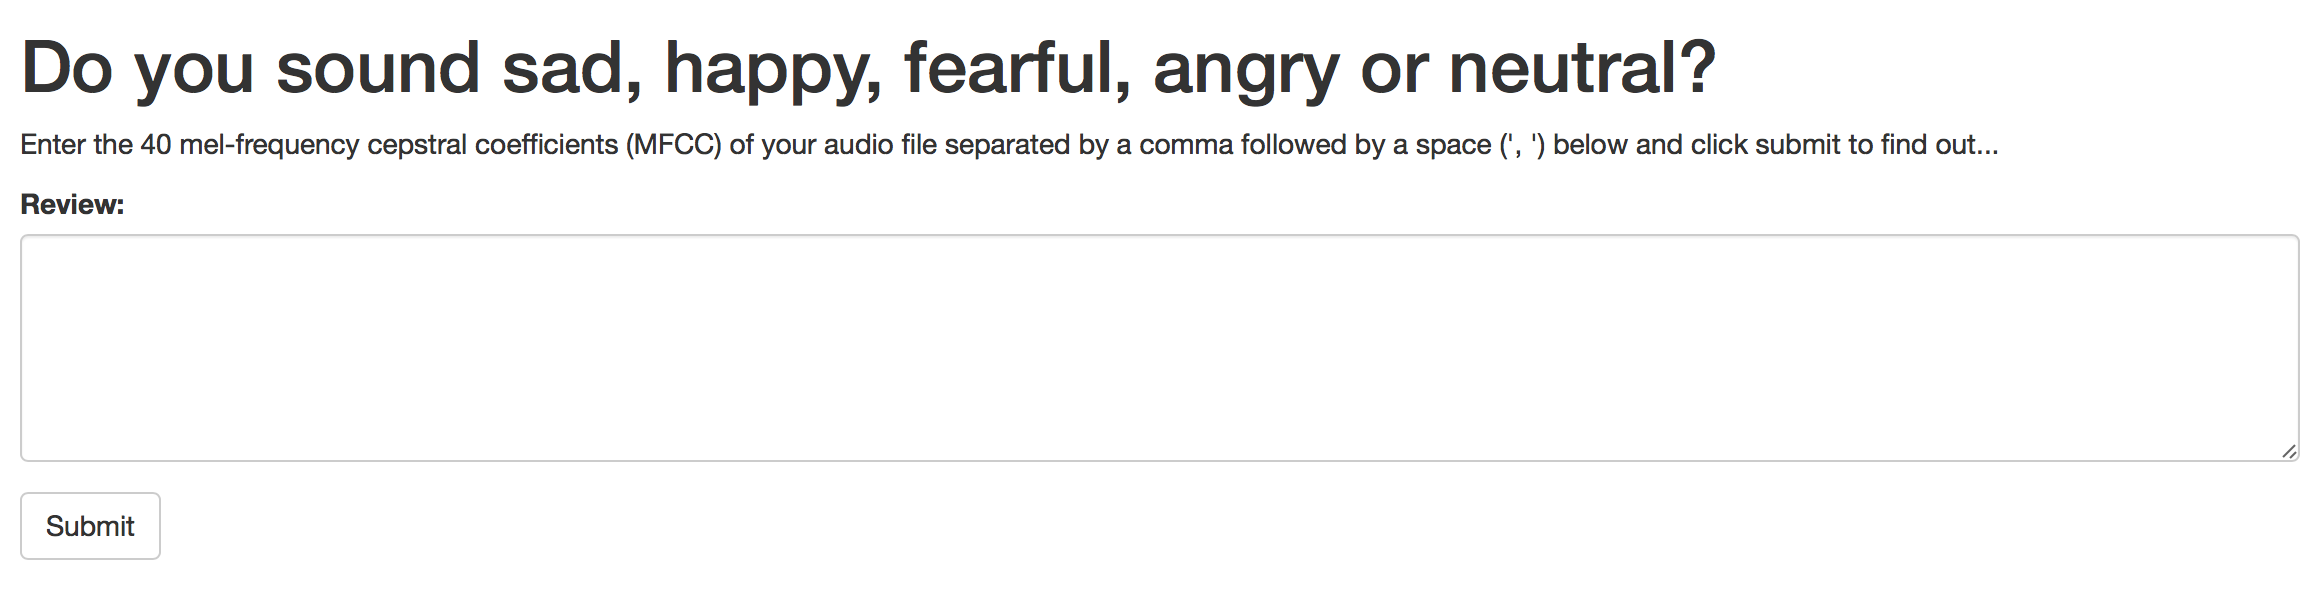
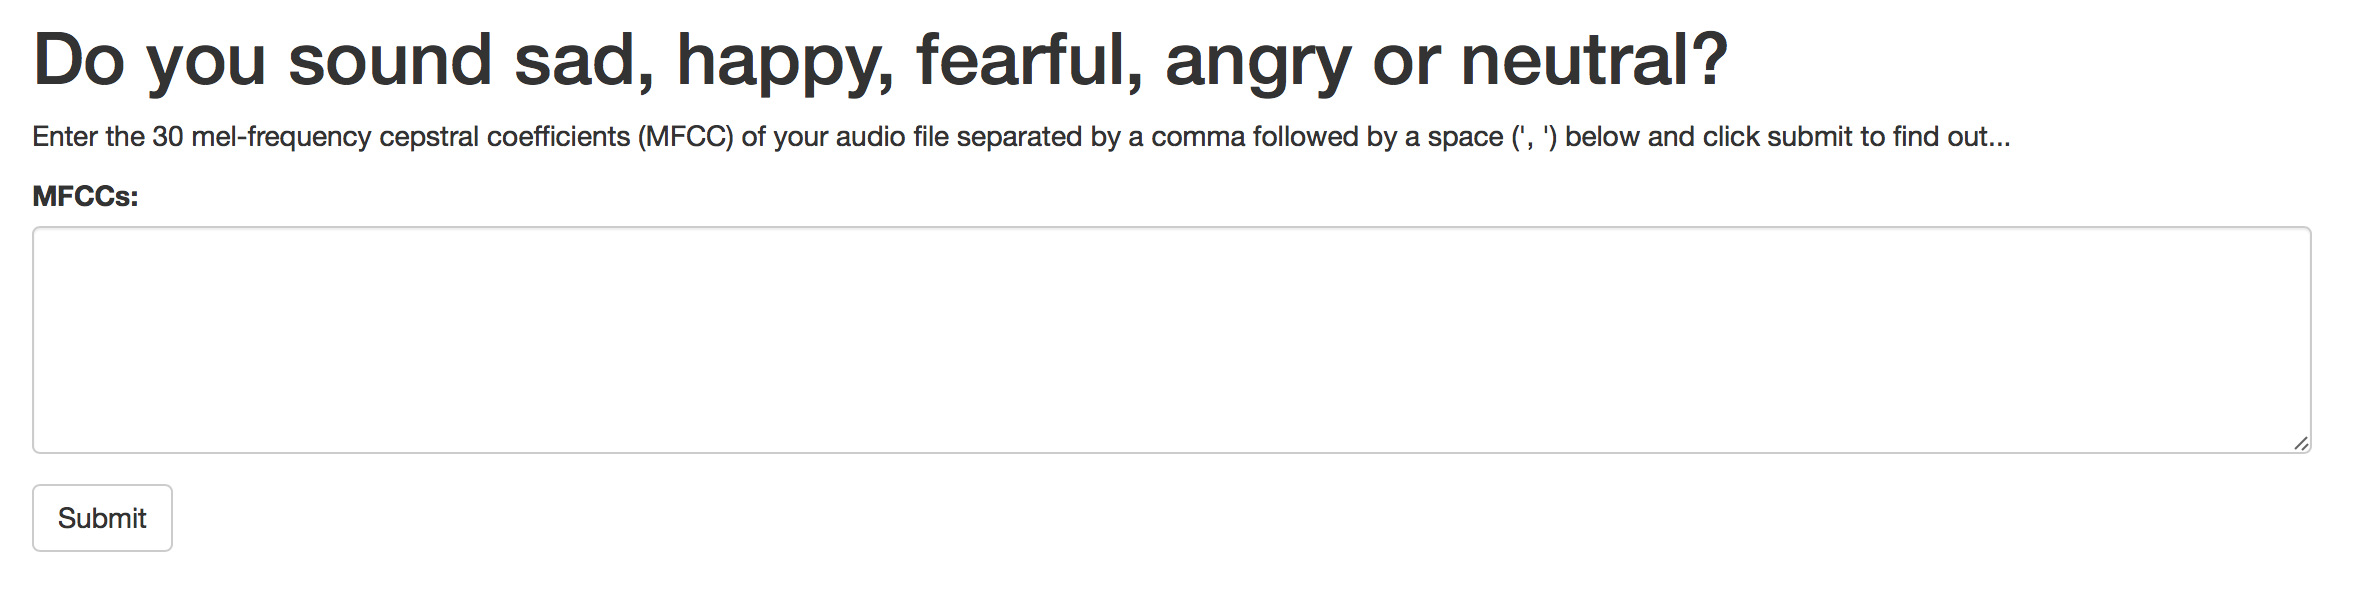
feat: redeployed and retested model 3 with 30 MFCCs

diff --git a/index.html b/index.html
@@ -45,12 +45,12 @@
 
         <div class="container">
             <h1>Do you sound sad, happy, fearful, angry or neutral?</h1>
-            <p>Enter the 40 mel-frequency cepstral coefficients (MFCC) of your audio file separated by a comma followed by a space (', ') below and click submit to find out...</p>
+            <p>Enter the 30 mel-frequency cepstral coefficients (MFCC) of your audio file separated by a comma followed by a space (', ') below and click submit to find out...</p>
             <form method="POST"
                   action="https://00n3sou8ti.execute-api.eu-central-1.amazonaws.com/test"
                   onsubmit="return submitForm(this);" >
                 <div class="form-group">
-                    <label for="review">Review:</label>
+                    <label for="review">MFCCs:</label>
                     <textarea class="form-control"  rows="5" id="review"></textarea>
                 </div>
                 <button type="submit" class="btn btn-default">Submit</button>
